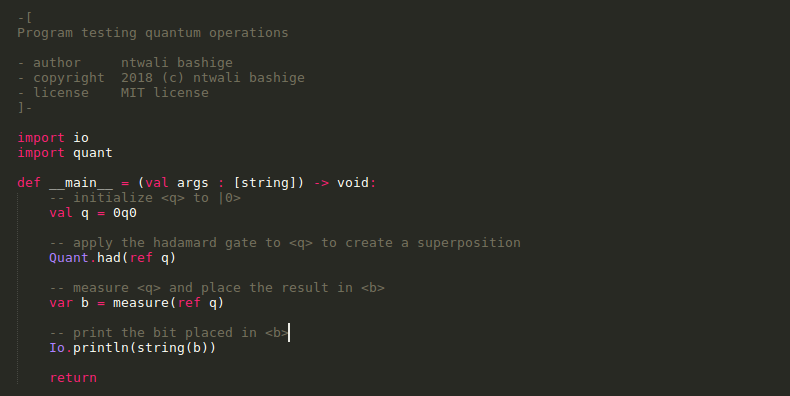
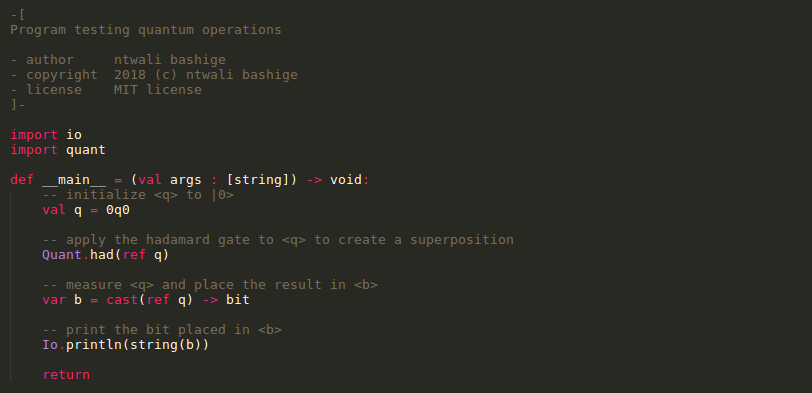
Make use of the cast operator to perform qubit measurements.

diff --git a/src/interpreter/builtins/lang/avalon_cast.cpp b/src/interpreter/builtins/lang/avalon_cast.cpp
@@ -35,11 +35,13 @@
 #include "representer/ast/decl/type.hpp"
 /* Expressions */
 #include "representer/ast/expr/identifier_expression.hpp"
+#include "representer/ast/expr/reference_expression.hpp"
 #include "representer/ast/expr/literal_expression.hpp"
 #include "representer/ast/expr/expr.hpp"
 
 /* Builtin programs */
 #include "representer/builtins/lang/avalon_string.hpp"
+#include "representer/builtins/lang/avalon_qubit.hpp"
 #include "representer/builtins/lang/avalon_float.hpp"
 #include "representer/builtins/lang/avalon_bool.hpp"
 #include "representer/builtins/lang/avalon_bit2.hpp"
@@ -49,6 +51,7 @@
 #include "representer/builtins/lang/avalon_bit.hpp"
 
 /* Builtin functions */
+#include "interpreter/builtins/lang/avalon_qubit.hpp"
 #include "interpreter/builtins/lang/avalon_float.hpp"
 #include "interpreter/builtins/lang/avalon_bool.hpp"
 #include "interpreter/builtins/lang/avalon_bit2.hpp"
@@ -83,6 +86,10 @@ namespace avalon {
         avalon_bit avl_bit;
         type_instance bit_instance = avl_bit.get_type_instance();
 
+        // qubit type
+        avalon_qubit avl_qubit;
+        type_instance qubit_instance = avl_qubit.get_type_instance();
+
         // make sure we got only one argument
         if(arguments.size() != 1)
             throw invalid_call("[compiler error] the builtin __cast__ function expects only one argument.");
@@ -108,11 +115,23 @@ namespace avalon {
             if(type_instance_strong_compare(arg_instance, int_instance)) {
                 return int_cast(arguments, ret_instance);
             }
-            if(type_instance_strong_compare(arg_instance, float_instance)) {
+            else if(type_instance_strong_compare(arg_instance, float_instance)) {
                 return float_cast(arguments, ret_instance);
             }
-            if(type_instance_strong_compare(arg_instance, bit_instance)) {
+            else if(type_instance_strong_compare(arg_instance, bit_instance)) {
                 return bit_cast(arguments, ret_instance);
+            }
+            else {
+                throw invalid_call("[compiler error] unexpected call to builtin function __cast__ using arguments of unsupported type instances");
+            }
+        }
+        else if(arg -> is_reference_expression()) {
+            std::shared_ptr<reference_expression> const & arg_lit = std::static_pointer_cast<reference_expression>(arg);
+            type_instance& arg_instance = arg_lit -> get_type_instance();
+
+            type_instance ref_instance = arg_instance.get_params()[0];
+            if(type_instance_strong_compare(ref_instance, qubit_instance)) {
+                return qubit_cast(arguments, ret_instance);
             }
             else {
                 throw invalid_call("[compiler error] unexpected call to builtin function __cast__ using arguments of unsupported type instances");

diff --git a/src/interpreter/builtins/lang/avalon_qubit.cpp b/src/interpreter/builtins/lang/avalon_qubit.cpp
@@ -89,10 +89,10 @@ namespace avalon {
     }
 
     /**
-     * avl_apply
+     * qubit_apply
      * applies a quantum gate to the qubits stored at the given reference
      */
-    std::shared_ptr<expr> avl_apply(std::vector<std::shared_ptr<expr> >& arguments) {
+    std::shared_ptr<expr> qubit_apply(std::vector<std::shared_ptr<expr> >& arguments) {
         // qubit type
         avalon_qubit avl_qubit;
         type_instance qubit_instance = avl_qubit.get_type_instance();
@@ -168,10 +168,10 @@ namespace avalon {
     }
 
     /**
-     * avl_measure
+     * qubit_measure
      * performs a measure on the qubits stored at the given reference in the Z basis
      */
-    std::shared_ptr<expr> avl_measure(std::vector<std::shared_ptr<expr> >& arguments) {
+    std::shared_ptr<expr> qubit_measure(std::vector<std::shared_ptr<expr> >& arguments) {
         // qubit type
         avalon_qubit avl_qubit;
         type_instance qubit_instance = avl_qubit.get_type_instance();
@@ -215,5 +215,22 @@ namespace avalon {
         res_lit -> set_type_instance(bit_instance);
 
         return res_lit;
+    }
+
+    /**
+     * qubit_cast
+     * Performs a measurement of the qubits stored at the given reference in the Z basis
+     */
+    std::shared_ptr<expr> qubit_cast(std::vector<std::shared_ptr<expr> >& arguments, type_instance& ret_instance) {
+        // bit type
+        avalon_bit avl_bit;
+        type_instance bit_instance = avl_bit.get_type_instance();
+
+        if(type_instance_strong_compare(ret_instance, bit_instance)) {
+            return qubit_measure(arguments);
+        }
+        else {
+            throw invalid_call("[compiler error] the qubit __cast__ function cannot cast to <" + mangle_type_instance(ret_instance) + ">.");
+        }
     }
 }

diff --git a/src/representer/builtins/lang/avalon_qubit.cpp b/src/representer/builtins/lang/avalon_qubit.cpp
@@ -155,7 +155,8 @@ namespace avalon {
         std::shared_ptr<decl> apply_function_decl = qubit_apply_function;
         l_namespace -> add_declaration(apply_function_decl);
 
-        // measure
+        // measurement
+        // function version
         token qubit_measure_tok(IDENTIFIER, "measure", 0, 0, "__bif__");
         std::shared_ptr<function> qubit_measure_function = std::make_shared<function>(qubit_measure_tok);
         qubit_measure_function -> set_fqn(l_fqn);
@@ -169,6 +170,20 @@ namespace avalon {
         qubit_measure_function -> set_return_type_instance(bit_instance);
         std::shared_ptr<decl> measure_function_decl = qubit_measure_function;
         l_namespace -> add_declaration(measure_function_decl);
+        // operator version
+        token bit_cast_tok(IDENTIFIER, "__cast__", 0, 0, "__bif__");
+        std::shared_ptr<function> qubit_cast_function = std::make_shared<function>(bit_cast_tok);
+        qubit_cast_function -> set_fqn(l_fqn);
+        qubit_cast_function -> is_public(true);
+        qubit_cast_function -> is_builtin(true);
+        qubit_cast_function -> set_namespace(l_namespace -> get_name());
+        std::shared_ptr<scope> qubit_cast_scope = std::make_shared<scope>();
+        qubit_cast_scope -> set_parent(l_scope);
+        qubit_cast_function -> set_scope(qubit_cast_scope);
+        qubit_cast_function -> add_param(param_two);
+        qubit_cast_function -> set_return_type_instance(bit_instance);
+        std::shared_ptr<decl> cast_function_decl = qubit_cast_function;
+        l_namespace -> add_declaration(cast_function_decl);
 
         /* add the namespace to the program */
         std::shared_ptr<decl> namespace_decl = l_namespace;

diff --git a/src/interpreter/builtins/function_implementation.hpp b/src/interpreter/builtins/function_implementation.hpp
@@ -440,11 +440,11 @@ namespace avalon {
      */
     struct apply_implementation : function_implementation {
         virtual std::shared_ptr<expr> operator()(std::vector<std::shared_ptr<expr> >& arguments) {
-            return avl_apply(arguments);
+            return qubit_apply(arguments);
         }
 
         virtual std::shared_ptr<expr> operator()(std::vector<std::shared_ptr<expr> >& arguments, type_instance& ret_instance) {
-            return avl_apply(arguments);
+            return qubit_apply(arguments);
         }
     };
 
@@ -454,11 +454,11 @@ namespace avalon {
      */
     struct measure_implementation : function_implementation {
         virtual std::shared_ptr<expr> operator()(std::vector<std::shared_ptr<expr> >& arguments) {
-            return avl_measure(arguments);
+            return qubit_measure(arguments);
         }
 
         virtual std::shared_ptr<expr> operator()(std::vector<std::shared_ptr<expr> >& arguments, type_instance& ret_instance) {
-            return avl_measure(arguments);
+            return qubit_measure(arguments);
         }
     };
 }

diff --git a/src/interpreter/builtins/lang/avalon_qubit.hpp b/src/interpreter/builtins/lang/avalon_qubit.hpp
@@ -35,16 +35,22 @@
 
 namespace avalon {
     /**
-     * avl_apply
+     * qubit_apply
      * applies a quantum gate to the qubits stored at the given reference
      */
-    std::shared_ptr<expr> avl_apply(std::vector<std::shared_ptr<expr> >& arguments);
+    std::shared_ptr<expr> qubit_apply(std::vector<std::shared_ptr<expr> >& arguments);
 
     /**
-     * avl_measure
+     * qubit_measure
      * performs a measure on the qubits stored at the given reference in the Z basis
      */
-    std::shared_ptr<expr> avl_measure(std::vector<std::shared_ptr<expr> >& arguments);
+    std::shared_ptr<expr> qubit_measure(std::vector<std::shared_ptr<expr> >& arguments);
+
+    /**
+     * qubit_cast
+     * Performs a measurement of the qubits stored at the given reference in the Z basis
+     */
+    std::shared_ptr<expr> qubit_cast(std::vector<std::shared_ptr<expr> >& arguments, type_instance& ret_instance);
 }
 
 #endif
